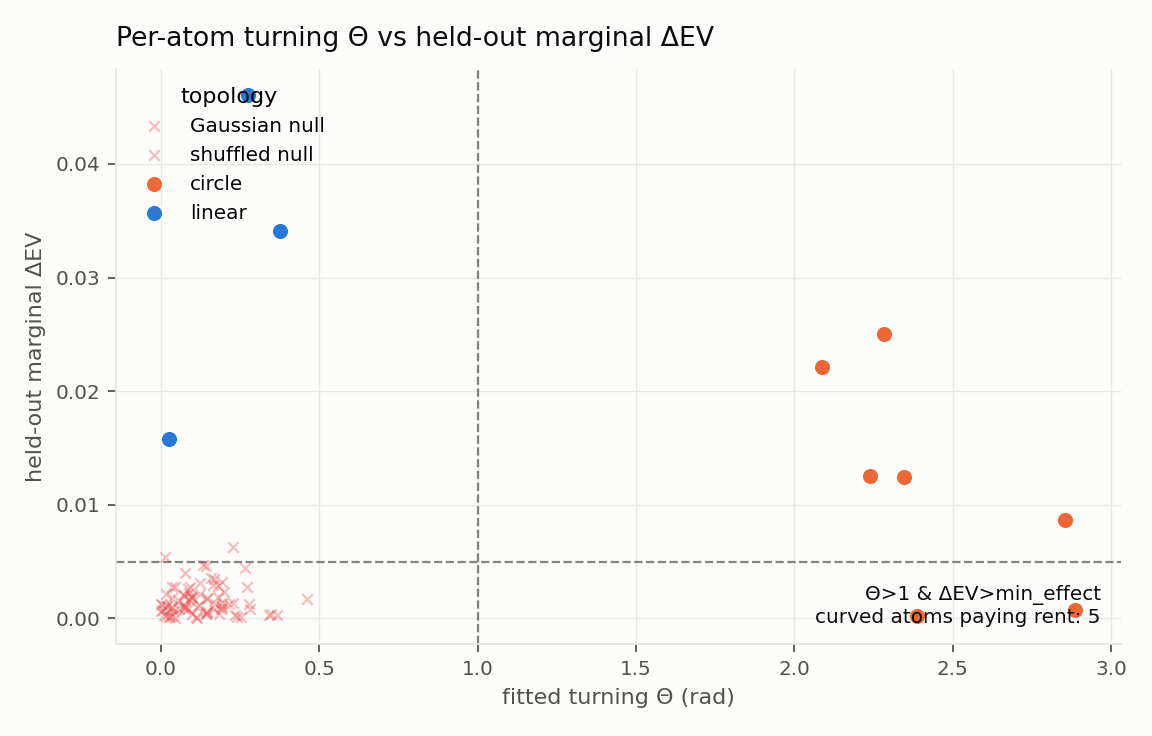
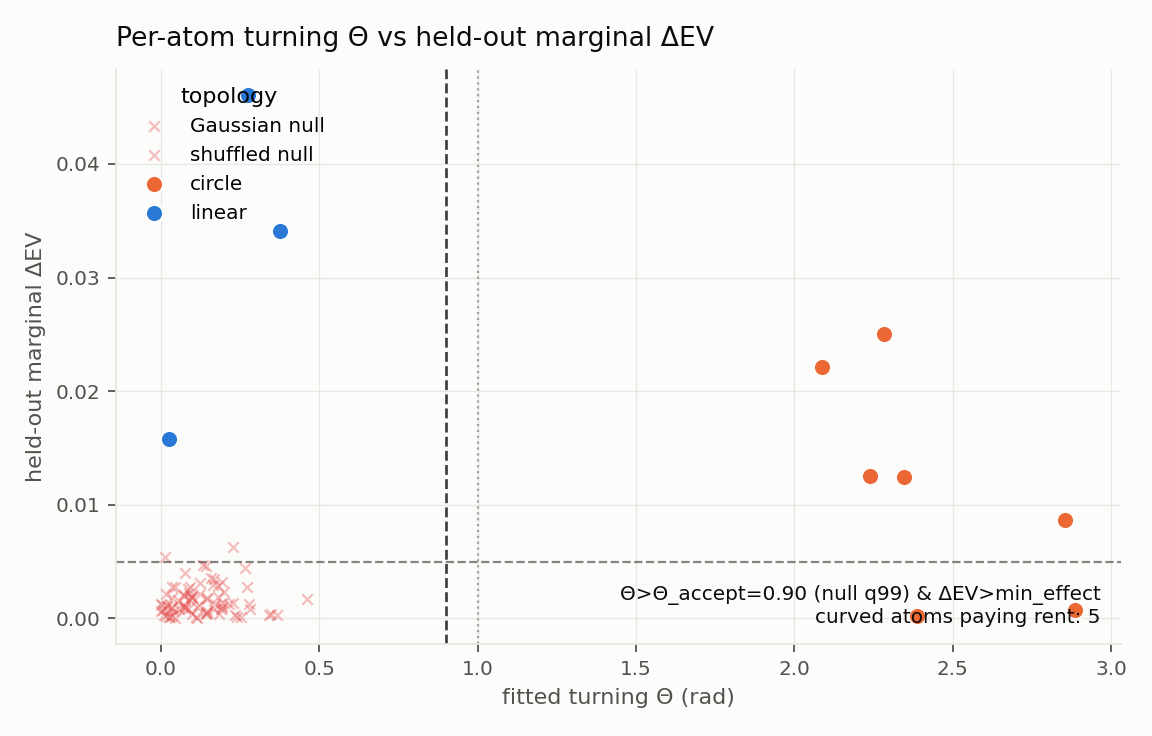
L6 EVAL: enforce Amendment 1 null-calibrated Θ_accept in the generator
Curved-atom acceptance (A2 count, G0 count, I1/G_band/G_util atom set) now uses
Θ_accept = q99 read from null_control.json, not the retired Θ>1. When the null
envelope has not landed, A2/I1/G_band/G_util report PENDING (never default to
Θ>1); fig2 still renders descriptively with a dotted Θ>1 salience line and the
operative Θ_accept dashed when present. Self-test carries a synthetic
theta_accept=0.9 so the calibrated ACCEPT path stays exercised. Real run_35b
(no null yet) correctly shows those cells PENDING.

Doc and code agree by construction —
one threshold, no reduction
to a guess: the null's own tail
is the bar the curves must scale.

Changed region(s): [[0.5312, 0.7812, 0.8438, 0.8125], [0.9062, 0.7812, 0.9375, 0.8125]]

diff --git a/experiments/report_35b_figures.py b/experiments/report_35b_figures.py
@@ -257,6 +257,11 @@ def fig2_theta_dev(compose: dict | None, out: Path, nc: dict | None = None) -> d
     if not atoms:
         return {"status": "PENDING", "reason": "no atoms in COMPOSE artifact"}
     min_eff = float(_get(compose, "min_effect_ev", "min_effect", default=0.0))
+    # Amendment 1(1): acceptance threshold is the null-calibrated q99, not Θ>1. Θ>1 is now a
+    # descriptive salience label. The figure is still drawn descriptively when the null
+    # envelope has not landed, but the A2 ACCEPT/MISS status stays PENDING until it does.
+    theta_accept = _theta_accept(nc)
+    theta_thresh = theta_accept if theta_accept is not None else 1.0
 
     # ΔEV provenance: the pre-registered A2 metric is HELD-OUT marginal (LOAO) ΔEV. If
     # COMPOSE only has the FFI's in-sample birth ΔEV, we still score but flag it — birth
@@ -310,22 +315,36 @@ def fig2_theta_dev(compose: dict | None, out: Path, nc: dict | None = None) -> d
         seen.add(topo)
         ax.scatter([th], [de], s=64, color=TOPO_COLOR[topo], edgecolor=SURFACE,
                    linewidth=1.2, label=lbl, zorder=3)
-        if topo == "circle" and th > 1.0 and de > min_eff:
+        if topo == "circle" and th > theta_thresh and de > min_eff:
             n_curved_paying += 1
-    ax.axvline(1.0, color=INK2, lw=1, ls="--", alpha=0.7)
+    # descriptive Θ>1 salience label (grey) + the operative null-calibrated Θ_accept (when landed)
+    ax.axvline(1.0, color=INK2, lw=1, ls=":", alpha=0.5)
+    if theta_accept is not None:
+        ax.axvline(theta_accept, color=INK, lw=1.2, ls="--", alpha=0.8)
     if min_eff > 0:
         ax.axhline(min_eff, color=INK2, lw=1, ls="--", alpha=0.7)
-    ax.annotate(f"Θ>1 & ΔEV>min_effect\ncurved atoms paying rent: {n_curved_paying}",
+    thr_lbl = (f"Θ>Θ_accept={theta_accept:.2f} (null q99)" if theta_accept is not None
+               else "Θ_accept PENDING (null q99 not landed); Θ>1 shown descriptively")
+    ax.annotate(f"{thr_lbl} & ΔEV>min_effect\ncurved atoms paying rent: {n_curved_paying}",
                 (0.98, 0.03), xycoords="axes fraction", ha="right", va="bottom",
                 color=INK, fontsize=9)
     _style(ax, "Per-atom turning Θ vs held-out marginal ΔEV",
            "fitted turning Θ (rad)", "held-out marginal ΔEV")
     ax.legend(frameon=False, fontsize=9, loc="upper left", title="topology")
+    # Amendment 1(1): without the null-calibrated Θ_accept the count is uncalibrated → PENDING
+    # (never default the acceptance to the retired Θ>1 magic constant). Figure still renders.
+    if theta_accept is None:
+        status = "PENDING"
+    else:
+        status = "ACCEPT" if n_curved_paying >= 5 else "MISS"
     return {
-        "status": "ACCEPT" if n_curved_paying >= 5 else "MISS",
-        "curved_atoms_theta_gt1_and_paying": n_curved_paying,
+        "status": status,
+        "curved_atoms_paying": n_curved_paying,
+        "theta_accept": theta_accept,
+        "theta_accept_source": "null q99 (Amendment 1)" if theta_accept is not None
+                               else "PENDING — CONTROL null envelope not landed",
         "min_effect_ev": min_eff,
-        "threshold": ">= 5",
+        "threshold": ">= 5 atoms with Θ > Θ_accept & ΔEV > min_effect",
         "delta_ev_source": dev_source,
         "delta_ev_is_heldout": bool(held_out_dev),
         "figure": _save(fig, out),
@@ -621,8 +640,22 @@ def a3_collapse(compose: dict | None) -> dict:
             "grown_vs_joint": _get(compose, "grown_vs_joint", default=None)}
 
 
-def _accepted_curved(compose: dict) -> list[dict]:
-    """Curved atoms that pay rent: circle topology, Θ>1, ΔEV>min_effect."""
+def _theta_accept(nc: dict | None) -> float | None:
+    """Amendment 1(1): the curved-atom acceptance threshold is the q99 of the Θ distribution
+    the matched-Gaussian null manufactures through the identical pipeline (a measured null
+    quantile, not the retired magic constant Θ>1). CONTROL lands it in null_control.json.
+    Returns None when the null envelope has not landed → acceptance is UNCALIBRATED and the
+    dependent cells must report PENDING (never silently fall back to Θ>1)."""
+    if not nc:
+        return None
+    v = _get(nc, "theta_accept", "theta_accept_q99", "theta_q99_null", default=None)
+    return None if v is None else float(v)
+
+
+def _accepted_curved(compose: dict, theta_accept: float) -> list[dict]:
+    """Curved atoms that pay rent: circle topology, Θ > Θ_accept (null-calibrated q99,
+    Amendment 1(1)), ΔEV>min_effect. Caller must resolve theta_accept from the null first;
+    a None threshold means uncalibrated and the caller should have returned PENDING."""
     min_eff = float(_get(compose, "min_effect_ev", "min_effect", default=0.0))
     out = []
     for a in _get(compose, "atoms", default=[]):
@@ -632,7 +665,7 @@ def _accepted_curved(compose: dict) -> list[dict]:
         de = _get(a, "delta_ev", "dev", "loao_delta_ev")
         if th is None or de is None:
             continue
-        if float(th) > 1.0 and float(de) > min_eff:
+        if float(th) > theta_accept and float(de) > min_eff:
             out.append(a)
     return out
 
@@ -732,10 +765,13 @@ def g0_null_gate(nc: dict | None, out: Path, compose: dict | None = None) -> dic
 # ---------------------------------------------------------------------------------
 # Axis 3 — I1 shatter count (analytic from Θ; empirical if COMPOSE provides it).
 # ---------------------------------------------------------------------------------
-def i1_shatter(compose: dict | None, eps: float = 0.1) -> dict:
+def i1_shatter(compose: dict | None, theta_accept: float | None = None, eps: float = 0.1) -> dict:
     if not compose:
         return {"status": "PENDING", "reason": "COMPOSE per-atom not landed"}
-    atoms = _accepted_curved(compose)
+    if theta_accept is None:
+        return {"status": "PENDING",
+                "reason": "null Θ_accept (q99) not landed — curved-atom set uncalibrated (Amendment 1)"}
+    atoms = _accepted_curved(compose, theta_accept)
     if not atoms:
         return {"status": "PENDING", "reason": "no accepted curved atoms"}
     # shatter law: n ~ Θ / (2*sqrt(2*eps)) linear atoms to match one curve at rel-err eps
@@ -782,10 +818,13 @@ def _band_coverage_one(atom: dict) -> float | None:
     return float(inside.mean())
 
 
-def g_band(compose: dict | None) -> dict:
+def g_band(compose: dict | None, theta_accept: float | None = None) -> dict:
     if not compose:
         return {"status": "PENDING", "reason": "COMPOSE per-atom not landed"}
-    atoms = _accepted_curved(compose)
+    if theta_accept is None:
+        return {"status": "PENDING",
+                "reason": "null Θ_accept (q99) not landed — curved-atom set uncalibrated (Amendment 1)"}
+    atoms = _accepted_curved(compose, theta_accept)
     covs = [c for a in atoms if (c := _band_coverage_one(a)) is not None]
     if not covs:
         return {"status": "PENDING",
@@ -797,10 +836,13 @@ def g_band(compose: dict | None) -> dict:
             "threshold": "coverage in [0.90, 0.98]"}
 
 
-def g_util(compose: dict | None) -> dict:
+def g_util(compose: dict | None, theta_accept: float | None = None) -> dict:
     if not compose:
         return {"status": "PENDING", "reason": "COMPOSE per-atom not landed"}
-    atoms = _accepted_curved(compose)
+    if theta_accept is None:
+        return {"status": "PENDING",
+                "reason": "null Θ_accept (q99) not landed — curved-atom set uncalibrated (Amendment 1)"}
+    atoms = _accepted_curved(compose, theta_accept)
     srs, ds = [], []
     for a in atoms:
         sr = _get(a, "stable_rank")
@@ -985,8 +1027,8 @@ def write_report(results: dict, artifacts_dir: Path, out: Path) -> None:
     A("| | **Axis 4 — GEOMETRY** (licensed by G0) | | | |")
     row("G0", "hallucinated-structure GATE", "≤1 curved on nulls", g0.get("status"),
         cell((g0.get("detail") or {}).get("gaussian_matched", {}).get("n_curved_accepted")))
-    row("A2", "(Θ,ΔEV): curved atoms Θ>1 & ΔEV>min_effect", "≥5", a2.get("status"),
-        cell(a2.get("curved_atoms_theta_gt1_and_paying")))
+    row("A2", "(Θ,ΔEV): curved atoms Θ>Θ_accept(null q99) & ΔEV>min_effect", "≥5", a2.get("status"),
+        cell(a2.get("curved_atoms_paying")))
     row("A4", "coordinate fidelity (circular corr/ordering)", ">0.9", dose.get("A4_status"),
         cell(dose.get("ordering_corr")))
     row("G_wrap", "wraparound (Sun adjacent to Mon)", "pass", dose.get("Gwrap_status"),
@@ -1137,9 +1179,9 @@ def run(artifacts_dir: Path, report_path: Path | None = None) -> dict:
                            FIGDIR / "fig8_dose_calibration.png"),
         "fidelity": fidelity_currency(fc),
         "g0": g0_null_gate(nc, FIGDIR / "fig9_null_control.png", compose),
-        "i1": i1_shatter(compose),
-        "g_band": g_band(compose),
-        "g_util": g_util(compose),
+        "i1": i1_shatter(compose, _theta_accept(nc)),
+        "g_band": g_band(compose, _theta_accept(nc)),
+        "g_util": g_util(compose, _theta_accept(nc)),
         "r1": r1_stability(stab, compose, seed2),
         "r2": r2_cross_corpus(cross),
         "r3": r3_hygiene(manifest, tier0_present),
@@ -1243,6 +1285,7 @@ def selftest() -> dict:
         shuffled={"n_curved_accepted": 1, "mean_theta": 0.12,
                   "scatter_points": _npts(40)},
         harmonic_null={"higher_modes_on_first_harmonic_plus_noise": False},
+        theta_accept=0.9,  # Amendment 1(1): null q99 envelope (synthetic) — exercises the calibrated path
     )
     stab = {"principal_angle_overlap": 0.93, "hungarian_latent_match": 0.42}
     cross = {"n_curved_recurring": 4}

diff --git a/figures_35b/_selftest/REPORT_35B_selftest.md b/figures_35b/_selftest/REPORT_35B_selftest.md
@@ -50,12 +50,13 @@ Artifact schema gate: **PASS**
 | I3 | chart-interp nameable ordering | ordering>0.9 | ACCEPT | 0.96 |
 | | **Axis 4 — GEOMETRY** (licensed by G0) | | | |
 | G0 | hallucinated-structure GATE | ≤1 curved on nulls | PASS | 0 |
-| A2 | (Θ,ΔEV): curved atoms Θ>1 & ΔEV>min_effect | ≥5 | ACCEPT | 5 |
+| A2 | (Θ,ΔEV): curved atoms Θ>Θ_accept(null q99) & ΔEV>min_effect | ≥5 | ACCEPT | 5 |
 | A4 | coordinate fidelity (circular corr/ordering) | >0.9 | ACCEPT | 0.96 |
 | G_wrap | wraparound (Sun adjacent to Mon) | pass | ACCEPT | True |
 | G_band | 95% band coverage of held-out on-atom pts | ∈[0.90,0.98] | ACCEPT | 0.944 |
 | G_util | stable rank ≈ d (ARD prunes idle) | ≤ d+0.5 | ACCEPT | 1.153 |
 | | **Axis 5 — CAUSAL** (the crown) | | | |
+| C0 | dose artifact model / scope | 35B/36B required | ACCEPT | Qwen3.6-35B / 35b_crown |
 | A5 | dose slope (measured-KL on predicted-nats) | ∈[0.5,2] | ACCEPT | 1.08 |
 | A6 | dose R² | >0.7 | ACCEPT | 0.94 |
 | C_steer | on-target effect @ matched coherence | STRETCH | PENDING | steering_bench |
@@ -122,9 +123,11 @@ Held-out EV = **1 − SSE_recon / TSS**, where **TSS is taken about the TRAIN co
  },
  "fig2": {
   "status": "ACCEPT",
-  "curved_atoms_theta_gt1_and_paying": 5,
+  "curved_atoms_paying": 5,
+  "theta_accept": 0.9,
+  "theta_accept_source": "null q99 (Amendment 1)",
   "min_effect_ev": 0.005,
-  "threshold": ">= 5",
+  "threshold": ">= 5 atoms with \u0398 > \u0398_accept & \u0394EV > min_effect",
   "delta_ev_source": "heldout_loao",
   "delta_ev_is_heldout": true
  },
@@ -175,10 +178,11 @@ Held-out EV = **1 − SSE_recon / TSS**, where **TSS is taken about the TRAIN co
   }
  },
  "dose": {
+  "model": "Qwen3.6-35B",
+  "dose_scope": "35b_crown",
   "fig7": "/Users/user/Manifold-SAE/figures_35b/_selftest/fig7_probe_ordering.png",
   "ordering_corr": 0.96,
   "A4_status": "ACCEPT",
-  "model": "Qwen3.6-35B",
   "wraparound_pass": true,
   "Gwrap_status": "ACCEPT",
   "I3_nameable": "weekday",

diff --git a/REPORT_35B.md b/REPORT_35B.md
@@ -37,7 +37,7 @@ Artifact schema gate: **MISS**
 | I3 | chart-interp nameable ordering | ordering>0.9 | MISS | 0.570192374345247 |
 | | **Axis 4 — GEOMETRY** (licensed by G0) | | | |
 | G0 | hallucinated-structure GATE | ≤1 curved on nulls | PENDING | PENDING |
-| A2 | (Θ,ΔEV): curved atoms Θ>1 & ΔEV>min_effect | ≥5 | PENDING | PENDING |
+| A2 | (Θ,ΔEV): curved atoms Θ>Θ_accept(null q99) & ΔEV>min_effect | ≥5 | PENDING | PENDING |
 | A4 | coordinate fidelity (circular corr/ordering) | >0.9 | MISS | 0.570192374345247 |
 | G_wrap | wraparound (Sun adjacent to Mon) | pass | ACCEPT | True |
 | G_band | 95% band coverage of held-out on-atom pts | ∈[0.90,0.98] | PENDING | PENDING |